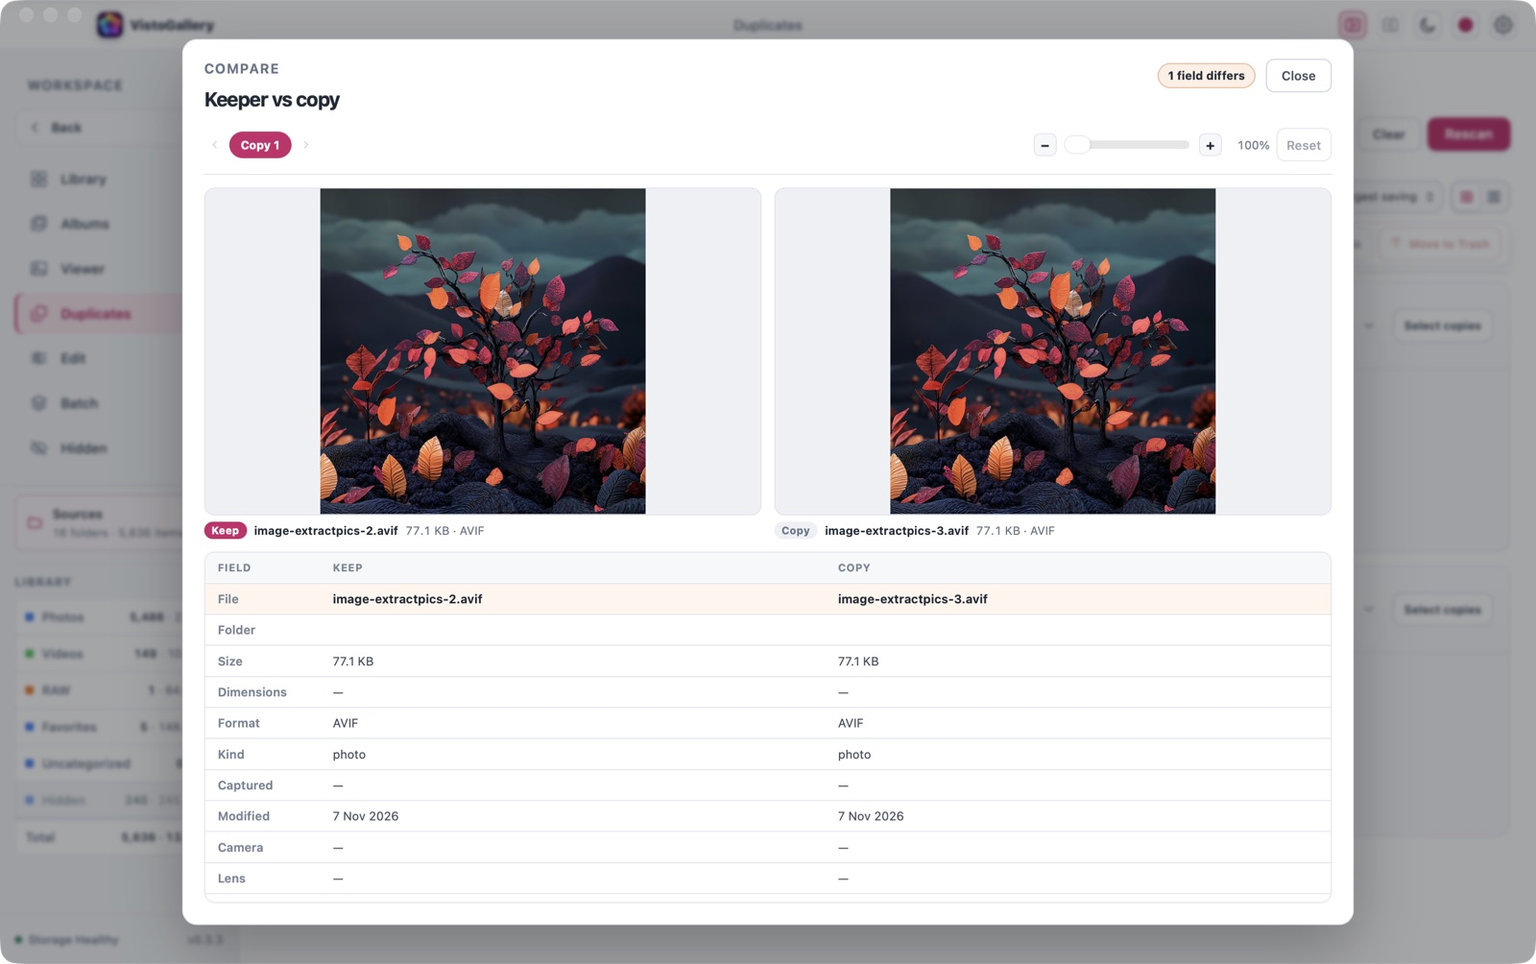
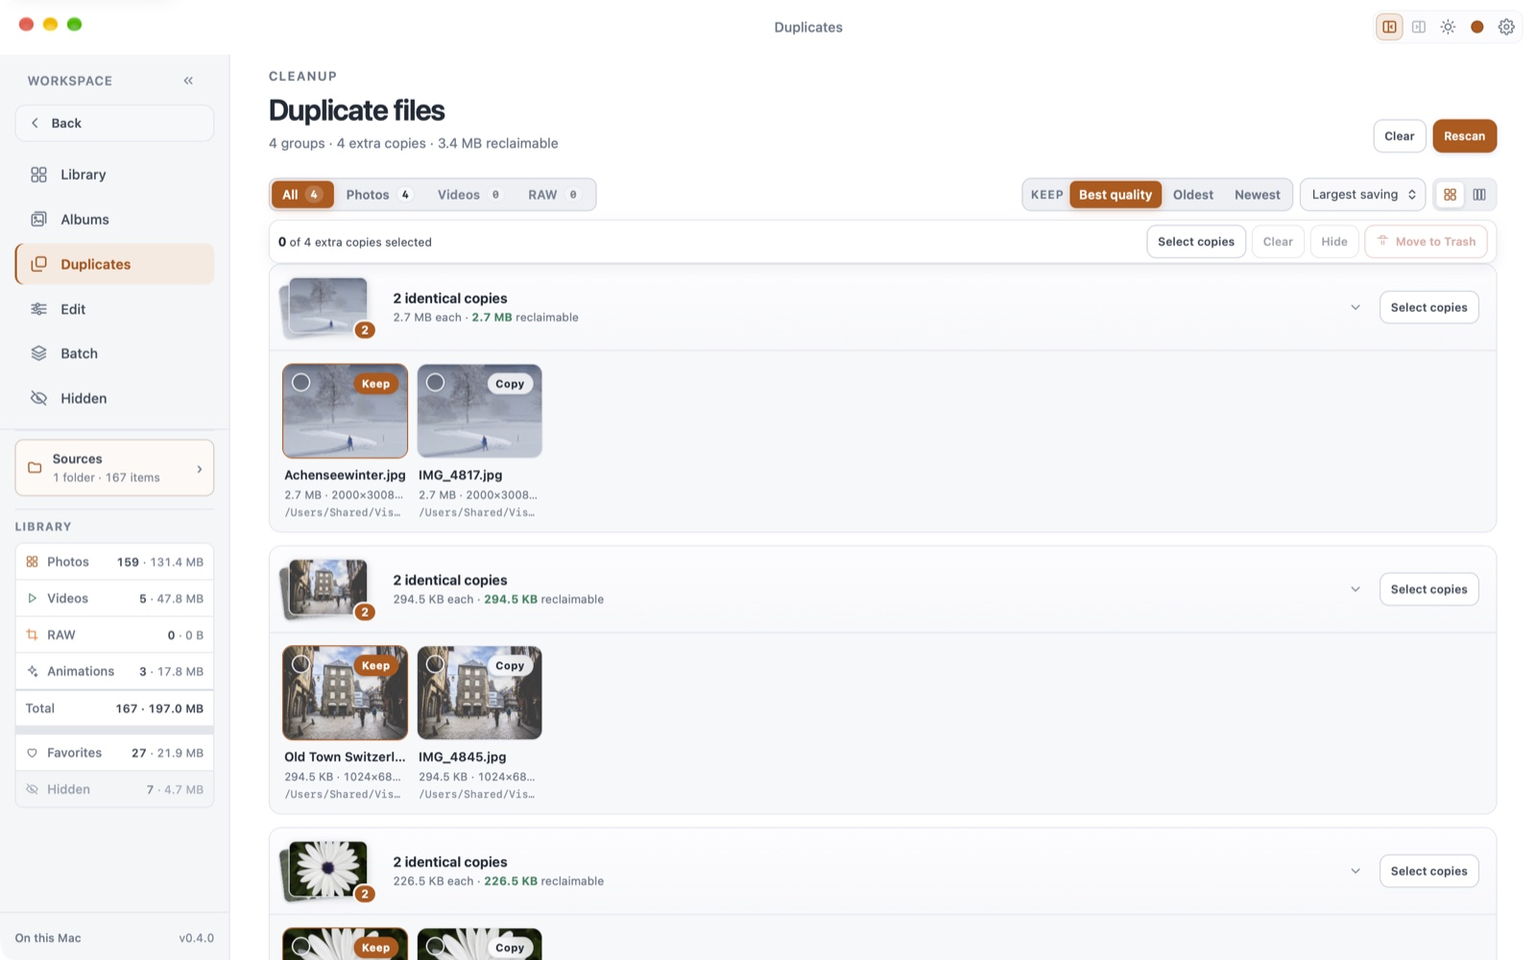
docs: retake screenshots from an openly licensed demo library
The old shots showed a home folder path, an unsuitable file name and
copyrighted music-video thumbnails. The new set comes from a separate demo
catalog of Wikimedia Commons, NASA and rawpixel media, credited in
docs/screenshots/CREDITS.md, and adds the player, editor, timeline, Details,
Hidden, Settings and compare screens, a tour GIF and a social preview.

diff --git a/docs/screenshots/CREDITS.md b/docs/screenshots/CREDITS.md
@@ -1,0 +1,142 @@
+# Demo library credits
+
+The screenshots and videos in `docs/screenshots` and `docs/media` show a demo library built from openly licensed media. Thumbnails and frames of these works appear in the images.
+
+- **NASA** images and video: public domain ([NASA media guidelines](https://www.nasa.gov/nasa-brand-center/images-and-media/)).
+- **rawpixel / Openverse** photos: CC0.
+- **Wikimedia Commons** photos and video: licenses listed below, each linked to its file page.
+
+## Wikimedia Commons
+
+- [01-พระที่นั่งคูหาคฤหาสน์.jpg](https://commons.wikimedia.org/wiki/File:01-พระที่นั่งคูหาคฤหาสน์.jpg) — BerryJ, CC BY-SA 4.0
+- [2013 Cogden Bridge.jpg](https://commons.wikimedia.org/wiki/File:2013_Cogden_Bridge.jpg) — Kreuzschnabel, CC BY-SA 3.0
+- [2014 Track on Fremington Edge.jpg](https://commons.wikimedia.org/wiki/File:2014_Track_on_Fremington_Edge.jpg) — Kreuzschnabel, CC BY-SA 3.0
+- [2015 Ribblehead Viaduct 1.jpg](https://commons.wikimedia.org/wiki/File:2015_Ribblehead_Viaduct_1.jpg) — Kreuzschnabel, CC BY-SA 3.0
+- [2015 Swaledale from Kisdon Hill.jpg](https://commons.wikimedia.org/wiki/File:2015_Swaledale_from_Kisdon_Hill.jpg) — Kreuzschnabel, CC BY-SA 3.0
+- [2019 - Parc national des Pyrenees - Vallée de Gavarnie.jpg](https://commons.wikimedia.org/wiki/File:2019_-_Parc_national_des_Pyrenees_-_Vallée_de_Gavarnie.jpg) — Moahim, CC BY-SA 4.0
+- [2909 vallon moy res.jpg](https://commons.wikimedia.org/wiki/File:2909_vallon_moy_res.jpg) — Berrucomons, CC BY-SA 3.0
+- [AB BDe 4-4 Jakobsbad - Urnäsch.jpg](https://commons.wikimedia.org/wiki/File:AB_BDe_4-4_Jakobsbad_-_Urnäsch.jpg) — Kabelleger / David Gubler (http://www.bahnbilder.ch), CC BY-SA 3.0
+- [AchenseeWinter01.JPG](https://commons.wikimedia.org/wiki/File:AchenseeWinter01.JPG) — friedrich, CC BY-SA 2.5
+- [Aguarales de Valpalmas, Zaragoza, España, 2015-01-06, DD 26.JPG](https://commons.wikimedia.org/wiki/File:Aguarales_de_Valpalmas,_Zaragoza,_España,_2015-01-06,_DD_26.JPG) — Diego Delso, CC BY-SA 4.0
+- [Albeck Benesirnitz Leonhard-Kapelle 06052015 3266.jpg](https://commons.wikimedia.org/wiki/File:Albeck_Benesirnitz_Leonhard-Kapelle_06052015_3266.jpg) — Johann Jaritz, CC BY-SA 4.0
+- [Albeck Seebachern Fahrweg zum Weissen Kreuz 22112017 2052.jpg](https://commons.wikimedia.org/wiki/File:Albeck_Seebachern_Fahrweg_zum_Weissen_Kreuz_22112017_2052.jpg) — Johann Jaritz, CC BY-SA 4.0
+- [Algar do Carvao, isla de Terceira, Azores, Portugal, 2020-07-25, DD 68-70 HDR.jpg](https://commons.wikimedia.org/wiki/File:Algar_do_Carvao,_isla_de_Terceira,_Azores,_Portugal,_2020-07-25,_DD_68-70_HDR.jpg) — Diego Delso, CC BY-SA 4.0
+- [Alone in the unspoilt wilderness (Unsplash).jpg](https://commons.wikimedia.org/wiki/File:Alone_in_the_unspoilt_wilderness_(Unsplash).jpg) — David Marcu davidmarcu, CC0
+- [Amanhecer no Hercules --.jpg](https://commons.wikimedia.org/wiki/File:Amanhecer_no_Hercules_--.jpg) — Carlos Perez Couto, CC BY-SA 3.0
+- [Araucárias ao fundo Parque Nacional da Serra da Bocaina - denoise.jpg](https://commons.wikimedia.org/wiki/File:Araucárias_ao_fundo_Parque_Nacional_da_Serra_da_Bocaina_-_denoise.jpg) — Heris Luiz Cordeiro Rocha, CC BY-SA 3.0
+- [ARG-2016-Aerial-Tierra del Fuego (Ushuaia)–Valle Carbajal 01.jpg](https://commons.wikimedia.org/wiki/File:ARG-2016-Aerial-Tierra_del_Fuego_(Ushuaia)–Valle_Carbajal_01.jpg) — Godot13, CC BY-SA 4.0
+- [Barranco Valle de la Fuente - Fuerteventura.jpg](https://commons.wikimedia.org/wiki/File:Barranco_Valle_de_la_Fuente_-_Fuerteventura.jpg) — H. Zell, CC BY 3.0
+- [Ganado, Imehejek, Sudán del Sur, 2024-01-21, DD 10.jpg](https://commons.wikimedia.org/wiki/File:Ganado,_Imehejek,_Sudán_del_Sur,_2024-01-21,_DD_10.jpg) — Diego Delso, CC BY-SA 4.0
+- [Stranded mules during the Uttarakhand Floods of 2013 as encountered by People for Animals during a rescue operation.jpg](https://commons.wikimedia.org/wiki/File:Stranded_mules_during_the_Uttarakhand_Floods_of_2013_as_encountered_by_People_for_Animals_during_a_rescue_operation.jpg) — Pulakit Singh, CC BY-SA 4.0
+- [Dülmen, Umland, Sonnenaufgang -- 2012 -- 8084.jpg](https://commons.wikimedia.org/wiki/File:Dülmen,_Umland,_Sonnenaufgang_--_2012_--_8084.jpg) — Dietmar Rabich, CC BY-SA 4.0
+- [Erfurt - Thüringer Zoopark - Rhea americana 01.jpg](https://commons.wikimedia.org/wiki/File:Erfurt_-_Thüringer_Zoopark_-_Rhea_americana_01.jpg) — H. Zell, CC BY-SA 3.0
+- [Ganzenveer bedekt met dauw. (d.j.b.) 02.jpg](https://commons.wikimedia.org/wiki/File:Ganzenveer_bedekt_met_dauw._(d.j.b.)_02.jpg) — Dominicus Johannes Bergsma, CC BY-SA 4.0
+- [2014.03.09.-23-Kaefertaler Wald-Mannheim-Fruehlings-Scharbockskraut.jpg](https://commons.wikimedia.org/wiki/File:2014.03.09.-23-Kaefertaler_Wald-Mannheim-Fruehlings-Scharbockskraut.jpg) — Andreas Eichler, CC BY-SA 4.0
+- [2014.03.29.-08-Mannheim Neckarau Waldpark-Wiesen-Schaumkraut.jpg](https://commons.wikimedia.org/wiki/File:2014.03.29.-08-Mannheim_Neckarau_Waldpark-Wiesen-Schaumkraut.jpg) — Andreas Eichler, CC BY-SA 4.0
+- [2014.03.29.-19-Mannheim Neckarau Waldpark--Wald-Veilchen.jpg](https://commons.wikimedia.org/wiki/File:2014.03.29.-19-Mannheim_Neckarau_Waldpark--Wald-Veilchen.jpg) — Andreas Eichler, CC BY-SA 4.0
+- [2014.07.14.-15-Machern--Schornsteinfeger.jpg](https://commons.wikimedia.org/wiki/File:2014.07.14.-15-Machern--Schornsteinfeger.jpg) — Andreas Eichler, CC BY-SA 4.0
+- [2015 Kwiatostan gruszy pospolitej.jpg](https://commons.wikimedia.org/wiki/File:2015_Kwiatostan_gruszy_pospolitej.jpg) — Jacek Halicki, CC BY-SA 4.0
+- [2016 Kwiat grzybieni białych 2.jpg](https://commons.wikimedia.org/wiki/File:2016_Kwiat_grzybieni_białych_2.jpg) — Jacek Halicki, CC BY-SA 4.0
+- [2017.06.05.-32-Anglerteiche-Rimbach--Wiesen-Storchschnabel.jpg](https://commons.wikimedia.org/wiki/File:2017.06.05.-32-Anglerteiche-Rimbach--Wiesen-Storchschnabel.jpg) — Andreas Eichler, CC BY-SA 4.0
+- [2017.06.17.-16-Reinheimer Teich-Reinheim--Sumpf-Storchschnabel.jpg](https://commons.wikimedia.org/wiki/File:2017.06.17.-16-Reinheimer_Teich-Reinheim--Sumpf-Storchschnabel.jpg) — Andreas Eichler, CC BY-SA 4.0
+- [2017.07.03.-22-Glubig-Melang-Fliess Wendisch Rietz--Weisse Seerose.jpg](https://commons.wikimedia.org/wiki/File:2017.07.03.-22-Glubig-Melang-Fliess_Wendisch_Rietz--Weisse_Seerose.jpg) — Andreas Eichler, CC BY-SA 4.0
+- [2017.10.15.-14-Kirschgartshaeuser Schlaege Mannheim--Gewoehnlicher Loewenzahn-Pusteblume.jpg](https://commons.wikimedia.org/wiki/File:2017.10.15.-14-Kirschgartshaeuser_Schlaege_Mannheim--Gewoehnlicher_Loewenzahn-Pusteblume.jpg) — Andreas Eichler, CC BY-SA 4.0
+- [Abeja (Bombus terrestris) en un Ptilotus exaltatus, jardín botánico de Tallin, Estonia, 2012-08-12, DD 01.JPG](https://commons.wikimedia.org/wiki/File:Abeja_(Bombus_terrestris)_en_un_Ptilotus_exaltatus,_jardín_botánico_de_Tallin,_Estonia,_2012-08-12,_DD_01.JPG) — Diego Delso, CC BY-SA 3.0
+- [Aceras anthropophora (detail).jpg](https://commons.wikimedia.org/wiki/File:Aceras_anthropophora_(detail).jpg) — Hans Hillewaert, CC BY-SA 4.0
+- [Adarga (Nymphaea alba), Ciudad Ho Chi Minh, Vietnam, 2013-08-14, DD 01.jpg](https://commons.wikimedia.org/wiki/File:Adarga_(Nymphaea_alba),_Ciudad_Ho_Chi_Minh,_Vietnam,_2013-08-14,_DD_01.jpg) — Diego Delso, CC BY-SA 3.0
+- [African Cape Daisy (Osteospermum barberiae).jpg](https://commons.wikimedia.org/wiki/File:African_Cape_Daisy_(Osteospermum_barberiae).jpg) — AntanO, CC BY-SA 4.0
+- [Agapanthus 'White Heaven', ingetogen schoonheid van de ontluikende bloemknop. Locatie, Tuinreservaat Jonkervallei 03.jpg](https://commons.wikimedia.org/wiki/File:Agapanthus_'White_Heaven',_ingetogen_schoonheid_van_de_ontluikende_bloemknop._Locatie,_Tuinreservaat_Jonkervallei_03.jpg) — Dominicus Johannes Bergsma, CC BY-SA 4.0
+- [Agapanthus -- 2021 -- 3928.jpg](https://commons.wikimedia.org/wiki/File:Agapanthus_--_2021_--_3928.jpg) — Dietmar Rabich, CC BY-SA 4.0
+- [Alcea rosea 2022 G1.jpg](https://commons.wikimedia.org/wiki/File:Alcea_rosea_2022_G1.jpg) — George Chernilevsky, CC BY-SA 4.0
+- [Alcea rosea 2025 G1.jpg](https://commons.wikimedia.org/wiki/File:Alcea_rosea_2025_G1.jpg) — George Chernilevsky, CC BY 4.0
+- [Allium 'Lucy Ball' Pink Flower Head 2236px.jpg](https://commons.wikimedia.org/wiki/File:Allium_'Lucy_Ball'_Pink_Flower_Head_2236px.jpg) — Photo by and (c)2008 Derek Ramsey (Ram-Man).  Co-attribution must be given to th, CC BY-SA 3.0
+- [Allium rothii 1.jpg](https://commons.wikimedia.org/wiki/File:Allium_rothii_1.jpg) — Gideon Pisanty (Gidip) גדעון פיזנטי, CC BY 3.0
+- [Anemone pulsatilla subsp. grandis ÖBG Bayreuth.jpg](https://commons.wikimedia.org/wiki/File:Anemone_pulsatilla_subsp._grandis_ÖBG_Bayreuth.jpg) — El Grafo, CC BY-SA 4.0
+- [Anemone tomentosa 'Albadura' 01.JPG](https://commons.wikimedia.org/wiki/File:Anemone_tomentosa_'Albadura'_01.JPG) — Dominicus Johannes Bergsma, CC BY-SA 3.0
+- [Anthophora bimaculata - Jasione montana - Tallinn.jpg](https://commons.wikimedia.org/wiki/File:Anthophora_bimaculata_-_Jasione_montana_-_Tallinn.jpg) — Ivar Leidus, CC BY-SA 4.0
+- [Apis mellifera - Prunus padus - Keila.jpg](https://commons.wikimedia.org/wiki/File:Apis_mellifera_-_Prunus_padus_-_Keila.jpg) — Ivar Leidus, CC BY-SA 4.0
+- [Apis mellifera - Senecio paludosus - Keila.jpg](https://commons.wikimedia.org/wiki/File:Apis_mellifera_-_Senecio_paludosus_-_Keila.jpg) — Ivar Leidus, CC BY-SA 4.0
+- [Apple-tree blossoms 2017 G3.jpg](https://commons.wikimedia.org/wiki/File:Apple-tree_blossoms_2017_G3.jpg) — George Chernilevsky, Public domain
+- [Argynnis adippe auf Centaurea jacea 01.jpg](https://commons.wikimedia.org/wiki/File:Argynnis_adippe_auf_Centaurea_jacea_01.jpg) — Uoaei1, CC BY-SA 4.0
+- [Asteracea poster 3.jpg](https://commons.wikimedia.org/wiki/File:Asteracea_poster_3.jpg) — Alvesgaspar, Tony Wills (10), CC BY-SA 3.0
+- [Astern IMG 3343.jpg](https://commons.wikimedia.org/wiki/File:Astern_IMG_3343.jpg) — Fischer.H, CC BY-SA 4.0
+- [Astragalus alpinus LC0319.jpg](https://commons.wikimedia.org/wiki/File:Astragalus_alpinus_LC0319.jpg) — Jörg Hempel, CC BY-SA 3.0 de
+- [Astrantia major Mitterbach 01.JPG](https://commons.wikimedia.org/wiki/File:Astrantia_major_Mitterbach_01.JPG) — Uoaei1, CC BY-SA 4.0
+- [Autumn leaf (Doleschallia bisaltide) Bali I.jpg](https://commons.wikimedia.org/wiki/File:Autumn_leaf_(Doleschallia_bisaltide)_Bali_I.jpg) — Charles J. Sharp, CC BY-SA 4.0
+- [Beilstein - Schmidhausen - Müller-Thurgau-Weg - gelb-rote Tulpenblüten mit Regentropfen (RQCD2782).jpg](https://commons.wikimedia.org/wiki/File:Beilstein_-_Schmidhausen_-_Müller-Thurgau-Weg_-_gelb-rote_Tulpenblüten_mit_Regentropfen_(RQCD2782).jpg) — Roman Eisele, CC BY-SA 4.0
+- [Berger's Clouded Yellow - Colias sareptensis 03.jpg](https://commons.wikimedia.org/wiki/File:Berger's_Clouded_Yellow_-_Colias_sareptensis_03.jpg) — Zeynel Cebeci, CC BY-SA 4.0
+- [Bistorta officinalis 01.JPG](https://commons.wikimedia.org/wiki/File:Bistorta_officinalis_01.JPG) — Uoaei1, CC BY-SA 3.0
+- [Bloeiwijze van een Doronicum orientale. 28-05-2026. (d.j.b).jpg](https://commons.wikimedia.org/wiki/File:Bloeiwijze_van_een_Doronicum_orientale._28-05-2026._(d.j.b).jpg) — Dominicus Johannes Bergsma., CC BY-SA 4.0
+- [Bloeiwijze van een Kruisdistel (Eryngium). 21-07-2023. (actm.) 01.jpg](https://commons.wikimedia.org/wiki/File:Bloeiwijze_van_een_Kruisdistel_(Eryngium)._21-07-2023._(actm.)_01.jpg) — Agnes Monkelbaan, CC BY-SA 4.0
+- [Bloemen van adderwortel (Persicaria bistorta, synoniem, Polygonum bistorta) 06-06-2021. (d.j.b).jpg](https://commons.wikimedia.org/wiki/File:Bloemen_van_adderwortel_(Persicaria_bistorta,_synoniem,_Polygonum_bistorta)_06-06-2021._(d.j.b).jpg) — Dominicus Johannes Bergsma, CC BY-SA 4.0
+- [Bloemen van de Boerenjasmijn (Philadelphus microphyllus). Locatie, Tuinreservaat Jonkervallei 02.jpg](https://commons.wikimedia.org/wiki/File:Bloemen_van_de_Boerenjasmijn_(Philadelphus_microphyllus)._Locatie,_Tuinreservaat_Jonkervallei_02.jpg) — Dominicus Johannes Bergsma, CC BY-SA 4.0
+- [Bloemen van een Chaenomeles x superba 'nicolina' (chinese kwee). 20-04-2021 (actm.) 01.jpg](https://commons.wikimedia.org/wiki/File:Bloemen_van_een_Chaenomeles_x_superba_'nicolina'_(chinese_kwee)._20-04-2021_(actm.)_01.jpg) — Agnes Monkelbaan, CC BY-SA 4.0
+- [Bloemen van een meidoorn (Crataegus) 08-05-2022. (d.j.b).jpg](https://commons.wikimedia.org/wiki/File:Bloemen_van_een_meidoorn_(Crataegus)_08-05-2022._(d.j.b).jpg) — Dominicus Johannes Bergsma, CC BY-SA 4.0
+- [Blueten 002 2021 08 23.jpg](https://commons.wikimedia.org/wiki/File:Blueten_002_2021_08_23.jpg) — Friedrich Haag, CC BY-SA 4.0
+- [Bolkar Blue - Polyommatus molleti.jpg](https://commons.wikimedia.org/wiki/File:Bolkar_Blue_-_Polyommatus_molleti.jpg) — Zeynel Cebeci, CC BY-SA 4.0
+- [Bombus cryptarum - Solidago virgaurea - Keila.jpg](https://commons.wikimedia.org/wiki/File:Bombus_cryptarum_-_Solidago_virgaurea_-_Keila.jpg) — Ivar Leidus, CC BY-SA 4.0
+- [Bombus lapidarius - Sonchus asper - Keila.jpg](https://commons.wikimedia.org/wiki/File:Bombus_lapidarius_-_Sonchus_asper_-_Keila.jpg) — Ivar Leidus, CC BY-SA 4.0
+- [Bombus veteranus - Cirsium vulgare - Keila1.jpg](https://commons.wikimedia.org/wiki/File:Bombus_veteranus_-_Cirsium_vulgare_-_Keila1.jpg) — Ivar Leidus, CC BY-SA 4.0
+- [Bloemen in een terracotta vaas., Albertus Jonas Brandt, Eelke Jelles Eelkema, 1810 - 1824 - Zoeken - Rijksmuseum.jpg](https://commons.wikimedia.org/wiki/File:Bloemen_in_een_terracotta_vaas.,_Albertus_Jonas_Brandt,_Eelke_Jelles_Eelkema,_1810_-_1824_-_Zoeken_-_Rijksmuseum.jpg) — Albertus Jonas Brandt / Eelke Jelles Eelkema, Public domain
+- [Bumblebee on Lavender Blossom.JPG](https://commons.wikimedia.org/wiki/File:Bumblebee_on_Lavender_Blossom.JPG) — Martin Falbisoner, CC BY-SA 4.0
+- [2012-03-14 21-42-55-file-etoiles-14f-2min-3d.jpg](https://commons.wikimedia.org/wiki/File:2012-03-14_21-42-55-file-etoiles-14f-2min-3d.jpg) — Thomas Bresson, CC BY 3.0
+- [2017-04 Circumpolar trails sunset at La Hague lighthouse.jpg](https://commons.wikimedia.org/wiki/File:2017-04_Circumpolar_trails_sunset_at_La_Hague_lighthouse.jpg) — Antoine Lamielle, CC BY-SA 4.0
+- [Agence Rol, L’éclipse, gare Saint-Lazare, 1921.jpg](https://commons.wikimedia.org/wiki/File:Agence_Rol,_L’éclipse,_gare_Saint-Lazare,_1921.jpg) — Agence Rol, Public domain
+- [Artist's impression of an ultra-short-period planet.jpg](https://commons.wikimedia.org/wiki/File:Artist's_impression_of_an_ultra-short-period_planet.jpg) — NASA, ESA and A. Schaller, CC BY 4.0
+- [Bartolomeu Velho 1568.jpg](https://commons.wikimedia.org/wiki/File:Bartolomeu_Velho_1568.jpg) — Bartolomeu Velho, Public domain
+- [Black hole - Messier 87.jpg](https://commons.wikimedia.org/wiki/File:Black_hole_-_Messier_87.jpg) — Event Horizon Telescope, CC BY 4.0
+- [Cellarius ptolemaic system.jpg](https://commons.wikimedia.org/wiki/File:Cellarius_ptolemaic_system.jpg) — Jan van Loon, Public domain
+- [Comet Tsuchinshan–ATLAS over Ohio (Composite).jpg](https://commons.wikimedia.org/wiki/File:Comet_Tsuchinshan–ATLAS_over_Ohio_(Composite).jpg) — Jim Vajda, CC BY 2.0
+- [Comet Tsuchinshan–ATLAS, in the night sky over Tuntorp 3.jpg](https://commons.wikimedia.org/wiki/File:Comet_Tsuchinshan–ATLAS,_in_the_night_sky_over_Tuntorp_3.jpg) — W.carter, CC BY-SA 4.0
+- [Comet-Hale-Bopp-29-03-1997 hires adj.jpg](https://commons.wikimedia.org/wiki/File:Comet-Hale-Bopp-29-03-1997_hires_adj.jpg) — Philipp Salzgeber, CC BY-SA 2.0 at
+- [CSIRO ScienceImage 3881 Five Antennas at Narrabri.jpg](https://commons.wikimedia.org/wiki/File:CSIRO_ScienceImage_3881_Five_Antennas_at_Narrabri.jpg) — John Masterson, CSIRO, CC BY 3.0
+- [In the photo there is one Perseid, Milky Way and Andromega galaxy and light pollution on the horizon - Luhasoo bog in Estonia.jpg](https://commons.wikimedia.org/wiki/File:In_the_photo_there_is_one_Perseid,_Milky_Way_and_Andromega_galaxy_and_light_pollution_on_the_horizon_-_Luhasoo_bog_in_Estonia.jpg) — Martin Mark, CC BY-SA 4.0
+- [Kométa C-2020 F3 (NEOWISE).jpg](https://commons.wikimedia.org/wiki/File:Kométa_C-2020_F3_(NEOWISE).jpg) — Palonitor, CC BY-SA 4.0
+- [Mercury, Venus and the Moon Align.jpg](https://commons.wikimedia.org/wiki/File:Mercury,_Venus_and_the_Moon_Align.jpg) — ESO/Y. Beletsky, CC BY 4.0
+- [Star-sizes.jpg](https://commons.wikimedia.org/wiki/File:Star-sizes.jpg) — Dave Jarvis (https://dave.autonoma.ca/), CC BY-SA 3.0
+- [William Herschel Telescope and Comet Tsuchinshan–ATLAS.jpg](https://commons.wikimedia.org/wiki/File:William_Herschel_Telescope_and_Comet_Tsuchinshan–ATLAS.jpg) — Whyistheskyblue1, CC BY-SA 4.0
+- [07-17-2012 - Emborio - Emporio - Santorini - Greece - 11.jpg](https://commons.wikimedia.org/wiki/File:07-17-2012_-_Emborio_-_Emporio_-_Santorini_-_Greece_-_11.jpg) — Norbert Nagel, CC BY-SA 3.0
+- [2014 Scar House Reservoir Dam.jpg](https://commons.wikimedia.org/wiki/File:2014_Scar_House_Reservoir_Dam.jpg) — Kreuzschnabel, CC BY-SA 3.0
+- [2018 01 (Blue) - Chaouen.jpg](https://commons.wikimedia.org/wiki/File:2018_01_(Blue)_-_Chaouen.jpg) — Fbrandao.1963, CC BY-SA 4.0
+- [Amboy (California, USA) -- 2012 -- 4.jpg](https://commons.wikimedia.org/wiki/File:Amboy_(California,_USA)_--_2012_--_4.jpg) — Dietmar Rabich, CC BY-SA 4.0
+- [Antwerp Central Station full size.jpg](https://commons.wikimedia.org/wiki/File:Antwerp_Central_Station_full_size.jpg) — Laurent-Jonathan Meyvaert, CC BY-SA 3.0
+- [Arabs Baths of Alhama de Granada in Andalusia, Spain.jpg](https://commons.wikimedia.org/wiki/File:Arabs_Baths_of_Alhama_de_Granada_in_Andalusia,_Spain.jpg) — SuperCar-RoadTrip.fr from Bordeaux, France, CC BY 2.0
+- [Atomium sphere (DSCF1211).jpg](https://commons.wikimedia.org/wiki/File:Atomium_sphere_(DSCF1211).jpg) — Trougnouf (Benoit Brummer), CC BY-SA 4.0
+- [Brazil Belém Las Docas 02.jpg](https://commons.wikimedia.org/wiki/File:Brazil_Belém_Las_Docas_02.jpg) — Cayambe, CC BY-SA 3.0
+- [Brighton MMB 34 West Pier.jpg](https://commons.wikimedia.org/wiki/File:Brighton_MMB_34_West_Pier.jpg) — mattbuck (category), CC BY-SA 4.0
+- [Brooklyn Botanic Garden New York May 2015 003.jpg](https://commons.wikimedia.org/wiki/File:Brooklyn_Botanic_Garden_New_York_May_2015_003.jpg) — King of Hearts, CC BY-SA 3.0
+- [Busskur i Riisskov natfoto version 2.jpg](https://commons.wikimedia.org/wiki/File:Busskur_i_Riisskov_natfoto_version_2.jpg) — Villy Fink Isaksen, CC BY-SA 4.0
+- [Bydgoszcz, Przystań Bydgoszcz, okna.jpg](https://commons.wikimedia.org/wiki/File:Bydgoszcz,_Przystań_Bydgoszcz,_okna.jpg) — 1bumer, CC BY-SA 4.0
+- [Carls stoll Bergslagssafari.jpg](https://commons.wikimedia.org/wiki/File:Carls_stoll_Bergslagssafari.jpg) — Calle Eklund/Vivo, CC BY-SA 4.0
+- [Carrelet, Esnandes, Charente-Maritime, august 2015.jpg](https://commons.wikimedia.org/wiki/File:Carrelet,_Esnandes,_Charente-Maritime,_august_2015.jpg) — Jebulon, CC0
+- [Carved wooden bench furniture and crafts at Heuan Chan heritage house in Luang Prabang Laos.jpg](https://commons.wikimedia.org/wiki/File:Carved_wooden_bench_furniture_and_crafts_at_Heuan_Chan_heritage_house_in_Luang_Prabang_Laos.jpg) — Basile Morin, CC BY-SA 4.0
+- [Centro histórico, Baku, Azerbaiyán, 2016-09-26, DD 221-223 HDR.jpg](https://commons.wikimedia.org/wiki/File:Centro_histórico,_Baku,_Azerbaiyán,_2016-09-26,_DD_221-223_HDR.jpg) — Diego Delso, CC BY-SA 4.0
+- [Ciechanów, wieżowy zbiornik wyrównawczy (3).jpg](https://commons.wikimedia.org/wiki/File:Ciechanów,_wieżowy_zbiornik_wyrównawczy_(3).jpg) — 1bumer, CC BY-SA 4.0
+- [Cloud Forest, Gardens by the Bay, Singapore.jpg](https://commons.wikimedia.org/wiki/File:Cloud_Forest,_Gardens_by_the_Bay,_Singapore.jpg) — Basile Morin, CC BY-SA 4.0
+- [Courtyard Zappeion Athens, Greece.jpg](https://commons.wikimedia.org/wiki/File:Courtyard_Zappeion_Athens,_Greece.jpg) — Jebulon, CC0
+- [Czech-2013-Prague-Astronomical clock face.jpg](https://commons.wikimedia.org/wiki/File:Czech-2013-Prague-Astronomical_clock_face.jpg) — Godot13, CC BY-SA 4.0
+- [Dam at Jalpa de Canovas 2.jpg](https://commons.wikimedia.org/wiki/File:Dam_at_Jalpa_de_Canovas_2.jpg) — Tomascastelazo, CC BY-SA 4.0
+- [Gobi, Klasztor Chamaryn (07).jpg](https://commons.wikimedia.org/wiki/File:Gobi,_Klasztor_Chamaryn_(07).jpg) — Marcin Konsek, CC BY-SA 4.0
+- [Gröna Lund June 2015.jpg](https://commons.wikimedia.org/wiki/File:Gröna_Lund_June_2015.jpg) — Arild Vågen, CC BY-SA 4.0
+- [Hrad Pernštejn (Pernstein) - brána (5. nádvoří).JPG](https://commons.wikimedia.org/wiki/File:Hrad_Pernštejn_(Pernstein)_-_brána_(5._nádvoří).JPG) — Pudelek, CC BY-SA 4.0
+- [Infinity Edge Pool, Mauritius.JPG](https://commons.wikimedia.org/wiki/File:Infinity_Edge_Pool,_Mauritius.JPG) — Martin Falbisoner, CC BY-SA 4.0
+- [Kimono Forest at night, Arashiyama Station, Arashiyama, Kyoto, Japan.jpg](https://commons.wikimedia.org/wiki/File:Kimono_Forest_at_night,_Arashiyama_Station,_Arashiyama,_Kyoto,_Japan.jpg) — Yasumichi Morita (designer)  Basile Morin (photographer), CC BY-SA 4.0
+- [Klagenfurt Viktring Quellenstrasse Strom-Verbundnetz 13022010 1580.jpg](https://commons.wikimedia.org/wiki/File:Klagenfurt_Viktring_Quellenstrasse_Strom-Verbundnetz_13022010_1580.jpg) — Johann Jaritz, CC BY-SA 4.0
+- [L'Umbracle, Valencia, Spain - Jan 2007.jpg](https://commons.wikimedia.org/wiki/File:L'Umbracle,_Valencia,_Spain_-_Jan_2007.jpg) — Diliff, CC BY-SA 3.0
+- [Los Angeles (California, USA), South Olive Street -- 2012 -- 4847.jpg](https://commons.wikimedia.org/wiki/File:Los_Angeles_(California,_USA),_South_Olive_Street_--_2012_--_4847.jpg) — Dietmar Rabich, CC BY-SA 4.0
+- [Luxembourg City Hall (54540726309).jpg](https://commons.wikimedia.org/wiki/File:Luxembourg_City_Hall_(54540726309).jpg) — Pierre Blaché from Paris, France, CC0
+- [Myeongjeongjeon seen through the wooden Gate Hyehwamun at Changgyeonggung Palace in Seoul.jpg](https://commons.wikimedia.org/wiki/File:Myeongjeongjeon_seen_through_the_wooden_Gate_Hyehwamun_at_Changgyeonggung_Palace_in_Seoul.jpg) — Basile Morin, CC BY-SA 4.0
+- [Partal pavilion bassin detail 1 edit.jpg](https://commons.wikimedia.org/wiki/File:Partal_pavilion_bassin_detail_1_edit.jpg) — Jebulon, CC0
+- [Patio de los Arrayanes detail Alhambra Granada Spain.jpg](https://commons.wikimedia.org/wiki/File:Patio_de_los_Arrayanes_detail_Alhambra_Granada_Spain.jpg) — Jebulon, CC0
+- [Pavillon Cour des Lions Alhambra Granada Spain.jpg](https://commons.wikimedia.org/wiki/File:Pavillon_Cour_des_Lions_Alhambra_Granada_Spain.jpg) — Jebulon, CC0
+- [Persépolis, Irán, 2016-09-24, DD 53.jpg](https://commons.wikimedia.org/wiki/File:Persépolis,_Irán,_2016-09-24,_DD_53.jpg) — Diego Delso, CC BY-SA 4.0
+- [Portico gallery perspective École Militaire Cour d'Honneur Paris.jpg](https://commons.wikimedia.org/wiki/File:Portico_gallery_perspective_École_Militaire_Cour_d'Honneur_Paris.jpg) — Jebulon, CC0
+- [Poertschach Johannes-Brahms-Promenade Promenadenbad Rutschenturm 25122015 9840 169crop.jpg](https://commons.wikimedia.org/wiki/File:Poertschach_Johannes-Brahms-Promenade_Promenadenbad_Rutschenturm_25122015_9840_169crop.jpg) — Johann Jaritz, CC BY-SA 3.0 at
+- [Presa de El Atazar - 01.jpg](https://commons.wikimedia.org/wiki/File:Presa_de_El_Atazar_-_01.jpg) — Carlos Delgado, CC BY-SA 3.0
+- [Regietów Wyżny (Рeґєтiв) - dzwonnica 01.jpg](https://commons.wikimedia.org/wiki/File:Regietów_Wyżny_(Рeґєтiв)_-_dzwonnica_01.jpg) — Pudelek, CC BY-SA 4.0
+- [Stockholm Schärengarten.jpg](https://commons.wikimedia.org/wiki/File:Stockholm_Schärengarten.jpg) — Christof46, CC BY-SA 4.0
+- [Water reflection of Hyangwonjeong Pavilion at Gyeongbokgung Palace in Seoul.jpg](https://commons.wikimedia.org/wiki/File:Water_reflection_of_Hyangwonjeong_Pavilion_at_Gyeongbokgung_Palace_in_Seoul.jpg) — Basile Morin, CC BY-SA 4.0
+- [Wind turbines along North Middle Road, Essex County, Ontario, 2025-06-29.jpg](https://commons.wikimedia.org/wiki/File:Wind_turbines_along_North_Middle_Road,_Essex_County,_Ontario,_2025-06-29.jpg) — Crisco 1492, CC BY-SA 4.0
+- [Селение Ний.jpg](https://commons.wikimedia.org/wiki/File:Селение_Ний.jpg) — Altushkin, CC BY-SA 4.0
+- [Karkloof Falls.webm](https://commons.wikimedia.org/wiki/File:Karkloof_Falls.webm) — https://www.flickr.com/photos/flowcomm/, CC BY 2.0
+- [Kullaojan putous 7.webm](https://commons.wikimedia.org/wiki/File:Kullaojan_putous_7.webm) — MKFI, Public domain
